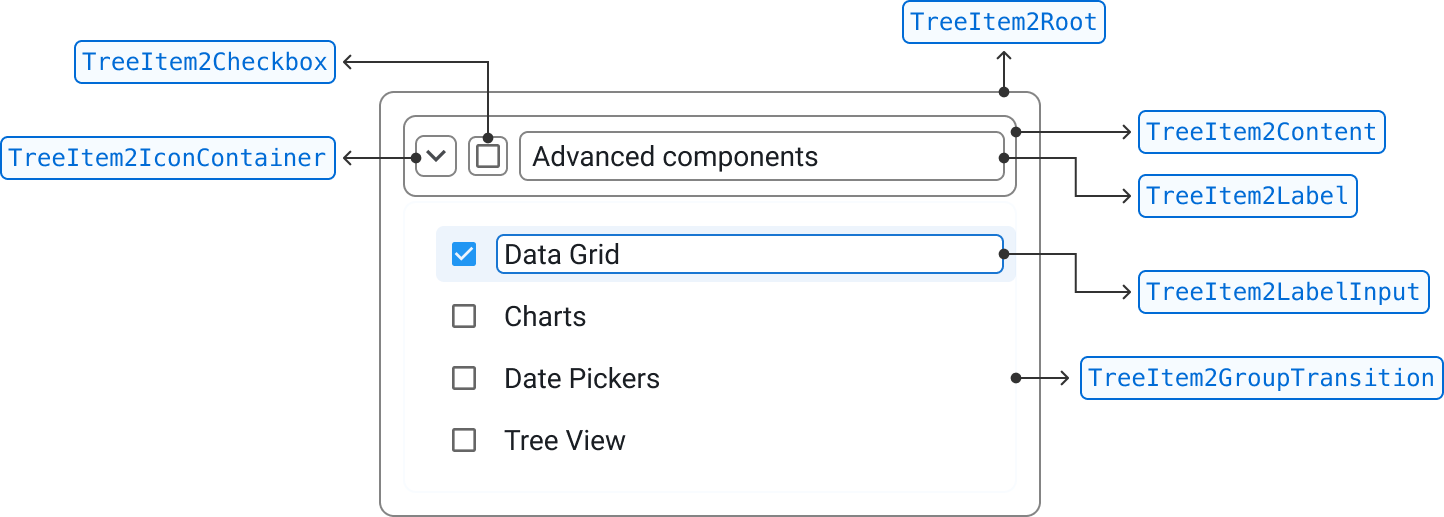
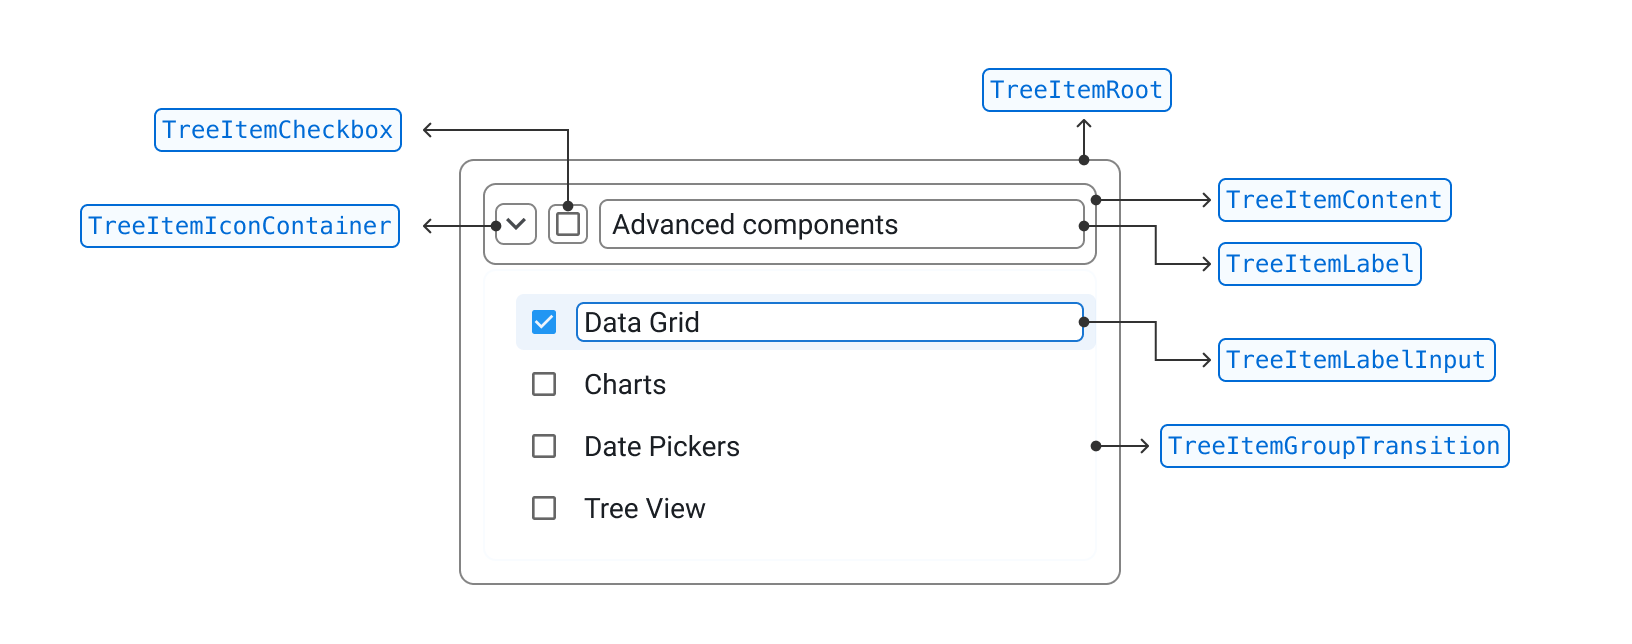
[TreeView] Replace the Tree Item anatomy images (#15066)

diff --git a/docs/data/tree-view/tree-item-customization/tree-item-customization.md b/docs/data/tree-view/tree-item-customization/tree-item-customization.md
@@ -16,10 +16,12 @@ waiAria: https://www.w3.org/WAI/ARIA/apg/patterns/treeview/
 Each Tree Item component is shaped by a series of composable slots.
 Hover over them in the demo below to see each slot.
 
-<!-- TBD which option is the best: interactive or image -->
-<!-- {{"demo": "CustomTreeItemDemo.js", "hideToolbar": true}} -->
-
-{{"component": "modules/components/TreeItemAnatomy.js"}}
+<span class="only-light-mode" style="border: 1px solid rgb(232, 234, 238); border-radius:12px">
+<img src="/static/x/tree-view-illustrations/tree-item-light.png" alt="Tree Item anatomy" loading="lazy"   >
+</span>
+<span class="only-dark-mode" style="border: 1px solid rgb(29, 33, 38); border-radius:12px">
+<img src="/static/x/tree-view-illustrations/tree-item-dark.png" alt="Tree Item anatomy" loading="lazy"   >
+</span>
 
 ### Content
 
